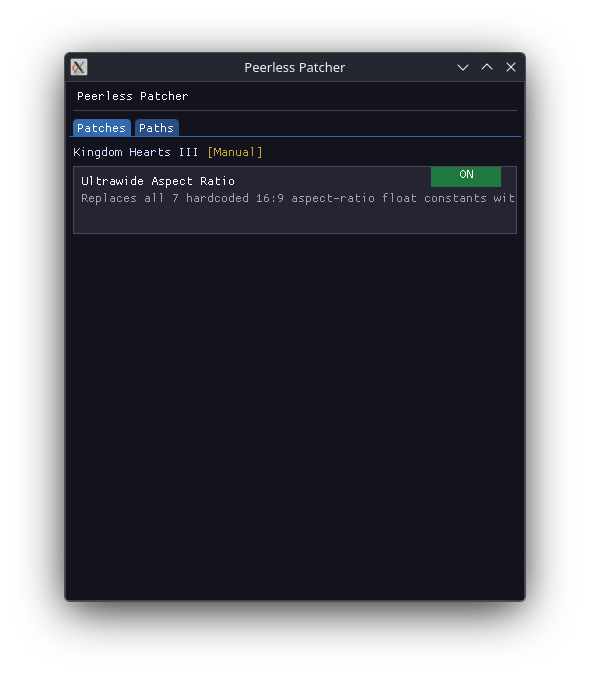
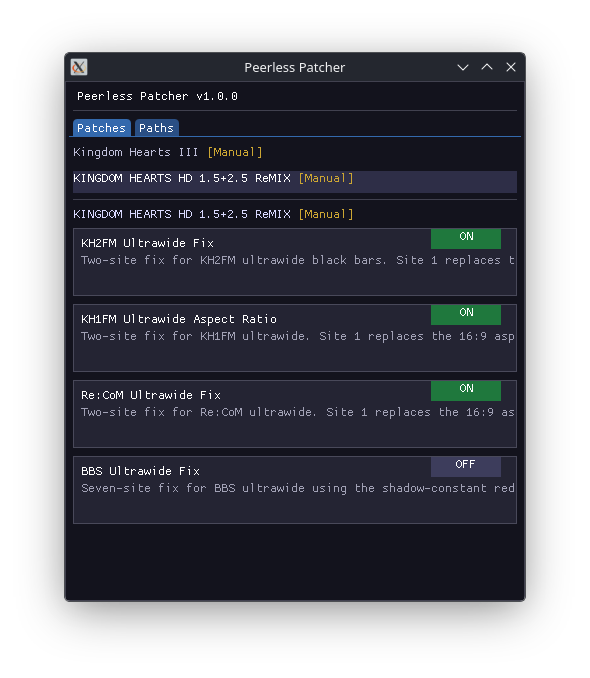
clarify what the project is about in the readme

diff --git a/README.md b/README.md
@@ -3,10 +3,44 @@
 ![Screenshot A](screenshot_a.png)
 ![Screenshot B](screenshot_b.png)
 
-I wanted to play kingdom hearts 3 so I figured I'd use AI to help create a tool for applying the ultrawide patches easily.
+I wanted to play the steam kingdom hearts games in ultrawide, but I was dissatisfied with how hard it is to patch them.
 
-Applies and reverts game patches for Steam games. Useful for ultrawide fixes and other exe edits. Run it alongside your game and toggle patches on or off.
-But most patches wont apply while the game is running.
+This tool will automatically find your steam installs for kingdom hearts games, allowing you to enable and disable ultrawide patches with a single click
+
+It might work with the epic games store versions too, but I have not tested it - and you would likely need to configure the path to the install manually
+
+### What this is
+- A really easy way to install basic ultrawide fixes that remove black bars for gameplay
+- A generic patching tool with some built in patches from the pc gaming wiki
+  - There are a few small improvements over the patches I found there, like scaling the viewport seperately from the UI in kingdom hearts BBS
+
+### What this is not
+- A handcrafted high quality tool
+  - I heavily used AI to speed up the development of this tool, it might not work on your machine, if it does not - open a report and I'll try fix it ASAP. I would not have had time to develop this without AI - developing this using AI was easier for me than installing the patches manually.
+- A replacement for something like (KH-ReFined)[https://github.com/KH-ReFined/KH-ReFined]
+  - ReFined is an awesome project that will hoepfully make this tool redundant in the future as it enables true aspect ratio + FOV modifications for any screen size (and much much more)
+  - ReFined is already by far the best way to play Kingdom Hearts 2 in ultrawide
+
+# Usage
+1. Open the peerless patcher
+2. Enable the patches you want
+3. Launch the games and play them
+
+# Usage (b)
+If the game paths were not detected, try launching the games with the patcher open before you try to apply the patches, the paths should be auto detected.
+- try patch them after this, you will need to restart the game
+
+# Usage (c)
+If the game paths are not auto detected, go to the paths tab and manually point the tool to your install folders, for example on linux this might look like:
+`/run/media/system/Samsung980Pro/SteamLibrary/steamapps/common/KINGDOM HEARTS -HD 1.5+2.5 ReMIX-`
+- hit apply then try patch them after this
+
+# Known bugs
+- Sometimes I have to go to the paths tab and hit apply on the paths before the patches will be detected as applied on startup.
+
+# Report bugs
+- If none of the above worked, add a issue to the github and if I have time i'll try fix it.
+
 
 ## Features
 
@@ -44,9 +78,7 @@ Builds are produced by CI on every push to `main` and on `v*` tag releases.
 
 ## Credits
 
-Thanks to the KH community for their combined efforts, I pulled most of the hex editing information from the PC Gaming Wiki and KH-ReFined
-Claude Sonnet 4.6 did the rest
-
+Thanks to the KH community for their combined efforts, I pulled most of the hex editing information from the PC Gaming Wiki
 
 ## Running
 